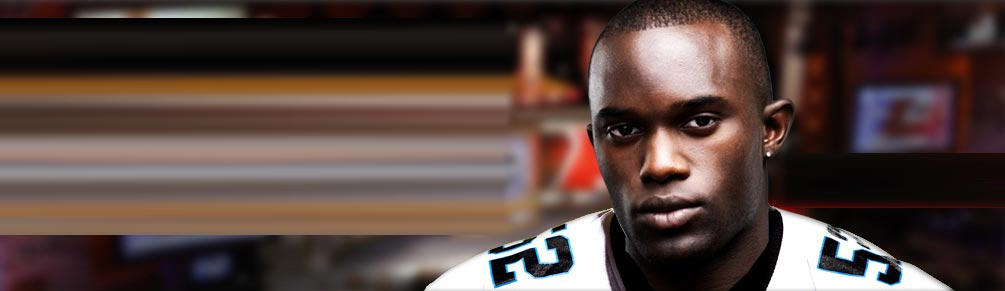
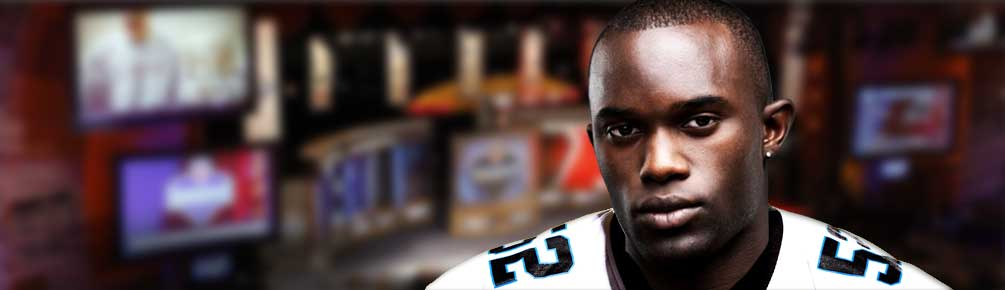
Final sanding done on NFL Draft Feature Story element

diff --git a/nfl-draft/static/css/screen.css b/nfl-draft/static/css/screen.css
@@ -103,9 +103,9 @@ body {
 img.bg {
   display: block;
   position: absolute;
-  top: 0;
+  top: auto;
   right: -300px;
-  bottom: auto;
+  bottom: 0;
   left: auto;
   height: auto;
   width: 100%;
@@ -123,10 +123,11 @@ h1,
 /* line 73, ../sass/screen.scss */
 .cta {
   color: #fff;
+  display: none;
   font-size: 0.8em;
   margin-top: 10px;
 }
-/* line 77, ../sass/screen.scss */
+/* line 78, ../sass/screen.scss */
 .cta .btn {
   background: #e71c20;
   color: #fff;
@@ -136,18 +137,18 @@ h1,
   padding: 5px 7px;
   text-transform: uppercase;
 }
-/* line 85, ../sass/screen.scss */
+/* line 86, ../sass/screen.scss */
 .cta .btn:hover {
   background: #fc6435;
 }
-/* line 88, ../sass/screen.scss */
+/* line 89, ../sass/screen.scss */
 .cta .btn img.arw {
   display: inline-block;
   margin-left: 5px;
   height: 9px;
 }
 
-/* line 97, ../sass/screen.scss */
+/* line 98, ../sass/screen.scss */
 .content-wrapper {
   background: rgba(0, 0, 0, 0.5);
   padding: 20px 20px;
@@ -157,78 +158,90 @@ h1,
   width: 60%;
   z-index: 1;
 }
+/* line 106, ../sass/screen.scss */
+.content-wrapper .cta {
+  display: block;
+}
 
-/* line 108, ../sass/screen.scss */
+/* line 112, ../sass/screen.scss */
 h1.headline {
   color: #fc6435;
   font-family: 'Montserrat';
   text-transform: uppercase;
 }
-/* line 112, ../sass/screen.scss */
+/* line 116, ../sass/screen.scss */
 h1.headline span.em {
   color: #f94603;
   display: block;
   font-size: 1.3em;
 }
 
-/* line 119, ../sass/screen.scss */
+/* line 123, ../sass/screen.scss */
 h2.sub-headline {
   color: white;
   font-size: 0.9em;
   margin-top: 15px;
 }
-/* line 123, ../sass/screen.scss */
+/* line 127, ../sass/screen.scss */
 h2.sub-headline.em {
   color: #fc6435;
 }
 
-@media screen and (min-width: 1300px) {
-  /* line 130, ../sass/screen.scss */
+@media screen and (min-width: 600px) {
+  /* line 134, ../sass/screen.scss */
   img.bg {
-    top: -50px;
-  }
-}
-@media screen and (min-width: 700px) {
-  /* line 137, ../sass/screen.scss */
-  img.bg {
-    right: auto;
+    right: -100px !important;
   }
 
-  /* line 140, ../sass/screen.scss */
+  /* line 137, ../sass/screen.scss */
+  h1.headline {
+    font-size: 1.6em;
+  }
+}
+@media screen and (min-width: 900px) {
+  /* line 148, ../sass/screen.scss */
+  img.bg {
+    right: 0px !important;
+  }
+
+  /* line 151, ../sass/screen.scss */
   .content-wrapper {
     width: 430px !important;
   }
+  /* line 153, ../sass/screen.scss */
+  .content-wrapper .cta {
+    display: none;
+  }
 
-  /* line 144, ../sass/screen.scss */
+  /* line 158, ../sass/screen.scss */
   .cta {
+    display: block;
     font-size: 1em;
-    margin-top: 25px;
     position: absolute;
+    right: 0;
+    top: 170px;
+    width: 220px;
     z-index: 2;
   }
-  /* line 149, ../sass/screen.scss */
+  /* line 167, ../sass/screen.scss */
   .cta img.arw {
     height: 11px !important;
   }
 
-  /* line 154, ../sass/screen.scss */
+  /* line 172, ../sass/screen.scss */
   h1.headline {
     font-size: 2.3em;
   }
 
-  /* line 158, ../sass/screen.scss */
+  /* line 176, ../sass/screen.scss */
   h2.sub-headline {
     font-size: 1.2em;
   }
 }
 @media screen and (min-width: 350px) {
-  /* line 165, ../sass/screen.scss */
+  /* line 183, ../sass/screen.scss */
   .content-wrapper {
     padding: 20px 30px;
-  }
-
-  /* line 168, ../sass/screen.scss */
-  .content-wrapper {
     width: 48%;
   }
 }

diff --git a/nfl-draft/static/sass/screen.scss b/nfl-draft/static/sass/screen.scss
@@ -56,7 +56,7 @@ body {
 img.bg {
   display: block;
   position: absolute;
-  top: 0; right: -300px; bottom: auto; left: auto;
+  top: auto; right: -300px; bottom: 0; left: auto;
   height: auto; width: 100%;
   min-width: 1005px;
   z-index: 0;
@@ -72,6 +72,7 @@ h1,
 
 .cta {
   color: #fff;
+  display: none; // Hide the version of the cta that's outside #content-wrapper
   font-size: 0.8em;
   margin-top: 10px;
   .btn {
@@ -102,6 +103,9 @@ h1,
   height: auto; 
   width: percentage($contentW);
   z-index: 1;
+  .cta {
+    display: block;
+  }
 }
 
 
@@ -126,25 +130,39 @@ h2.sub-headline {
 }
 
 @media
-screen and (min-width: 1300px) {
+screen and (min-width: 600px) {
   img.bg {
-    top: -50px;
+    right: -100px !important;
+  }
+  h1.headline {
+    font-size: 1.6em;
   }
 }
 
 @media
-screen and (min-width: 700px) {
+screen and (min-width: 900px) {
+}
+
+@media
+screen and (min-width: 900px) {
   img.bg {
-    right: auto;
+    right: 0px !important;
   }
   .content-wrapper {
     width: 470px - ($sidePad*2) !important;
+    .cta {
+      display: none;
+    }
   }
   
   .cta {
+    //background: rgba(yellow, 0.3);
+    display: block;
     font-size: 1em;
-    margin-top: 25px;
     position: absolute;
+    right: 0;
+    top: 170px;
+    width: 220px;
     z-index: 2;
     img.arw {
       height: 11px !important;
@@ -164,8 +182,6 @@ screen and (min-width: 700px) {
 screen and (min-width: 350px) {
   .content-wrapper {
     padding: 20px $sidePad*1.5;
-  }
-  .content-wrapper {
-    width: percentage($contentW*0.8);    
+    width: percentage($contentW*0.8); 
   }
 }

diff --git a/nfl-draft/index.php b/nfl-draft/index.php
@@ -21,6 +21,9 @@
       </div>
       <img class="bg" src="static/images/featured-nfl-draft-2013.jpg" />
     </div>
+    <div class="cta">
+      Are you an athlete? <a href="" class="btn">Join the Sqor Team<img class="arw" src="static/images/arw-sm-right.png" /></a>
+    </div>
     <!-- / actual component -->
   </div>
 </body>
